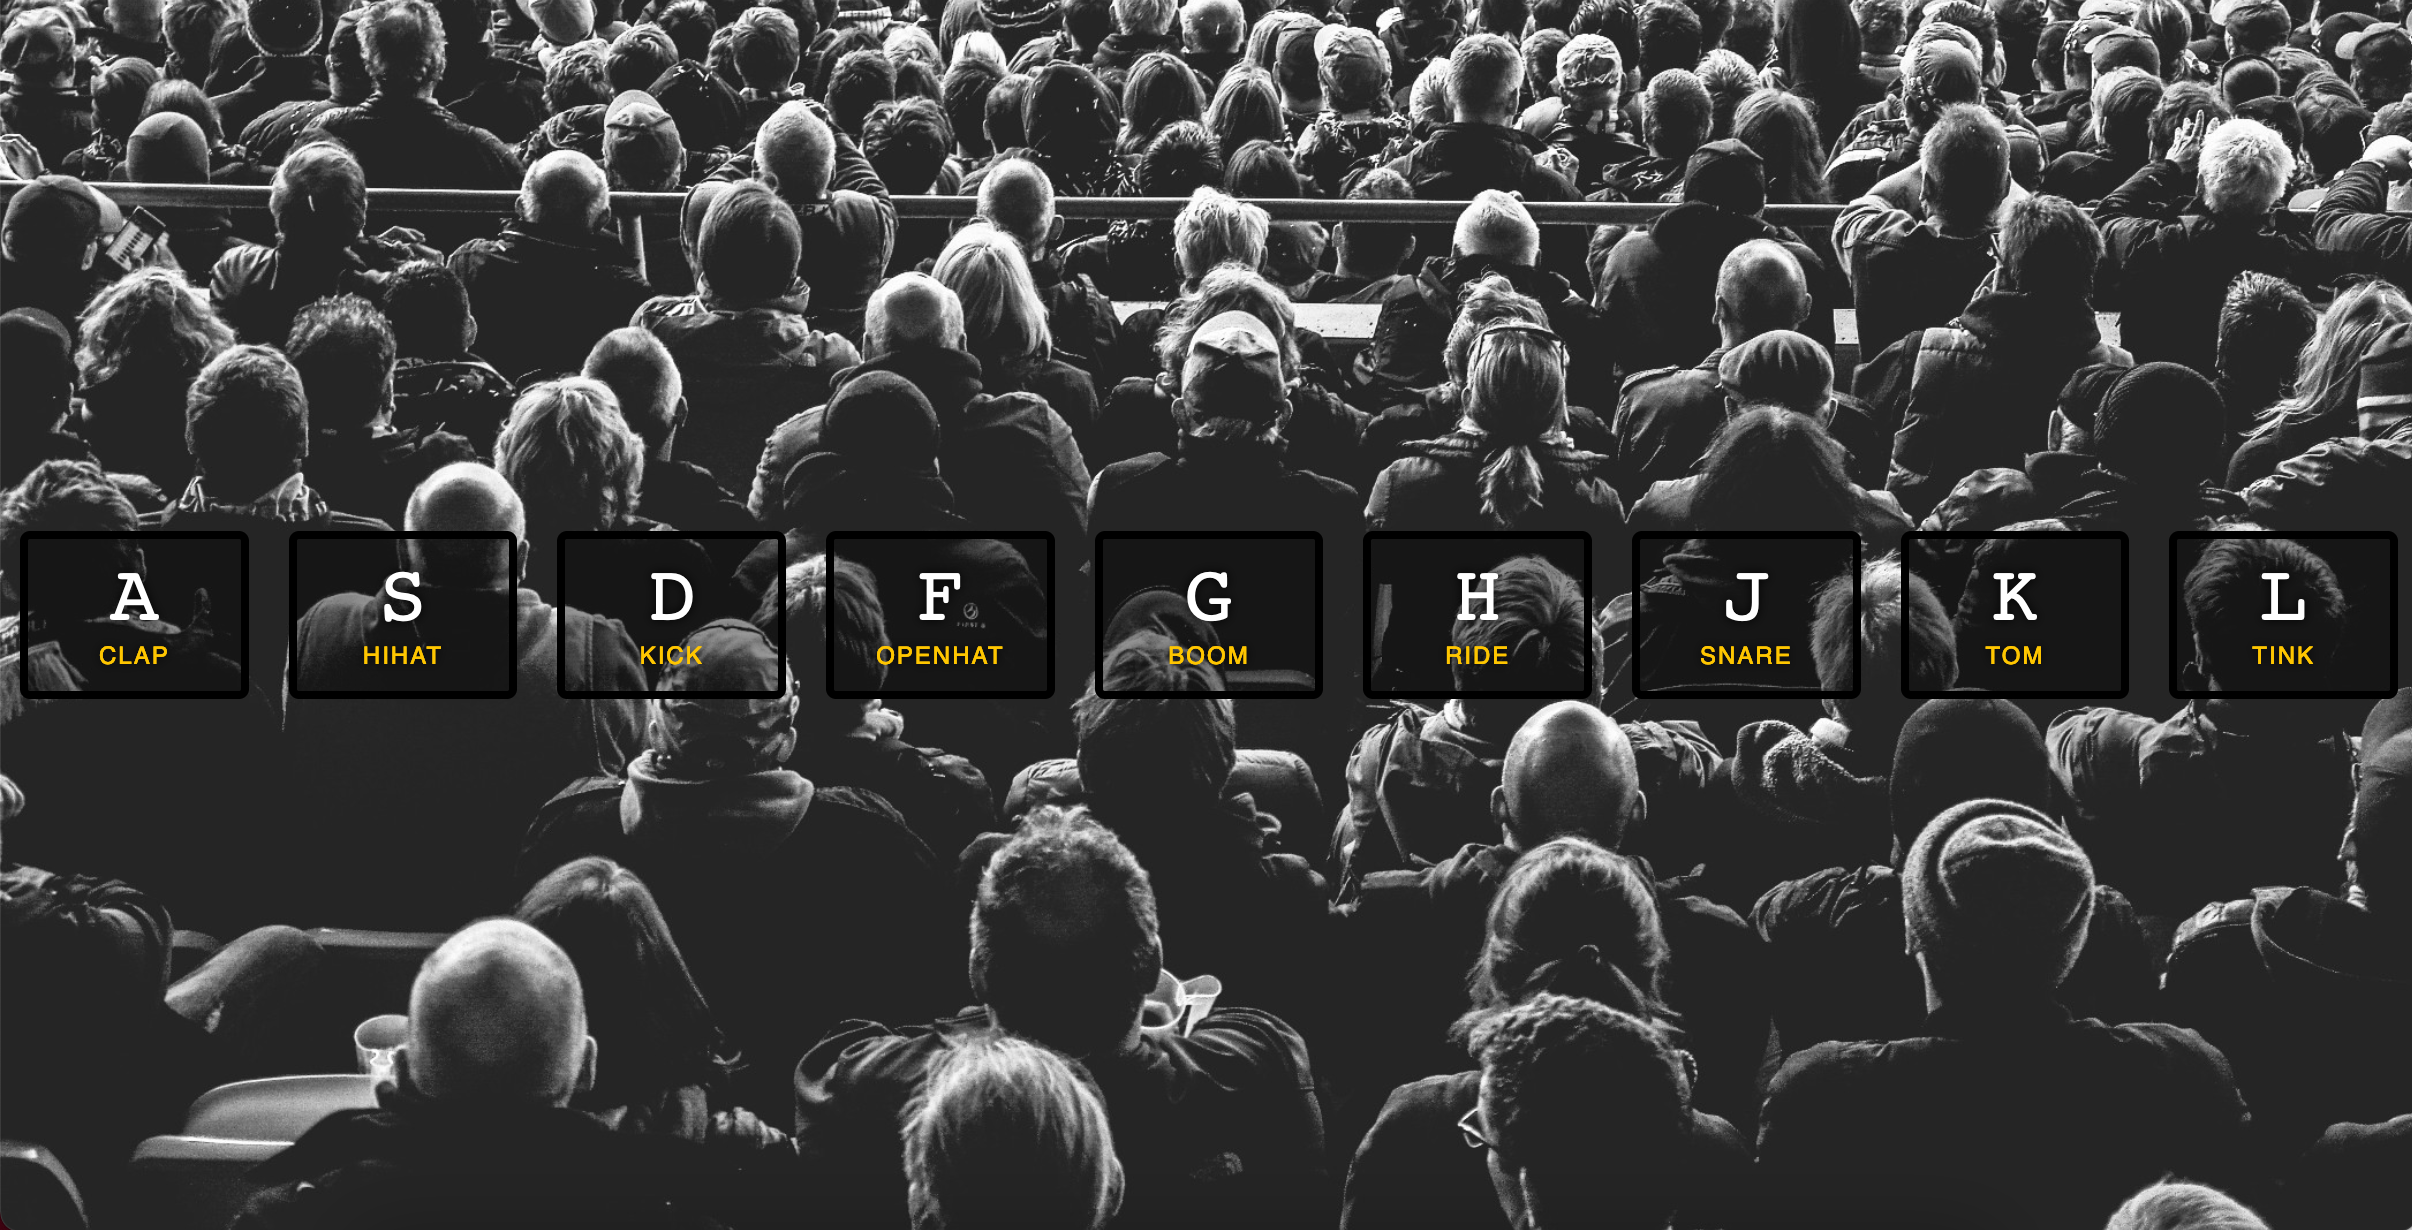
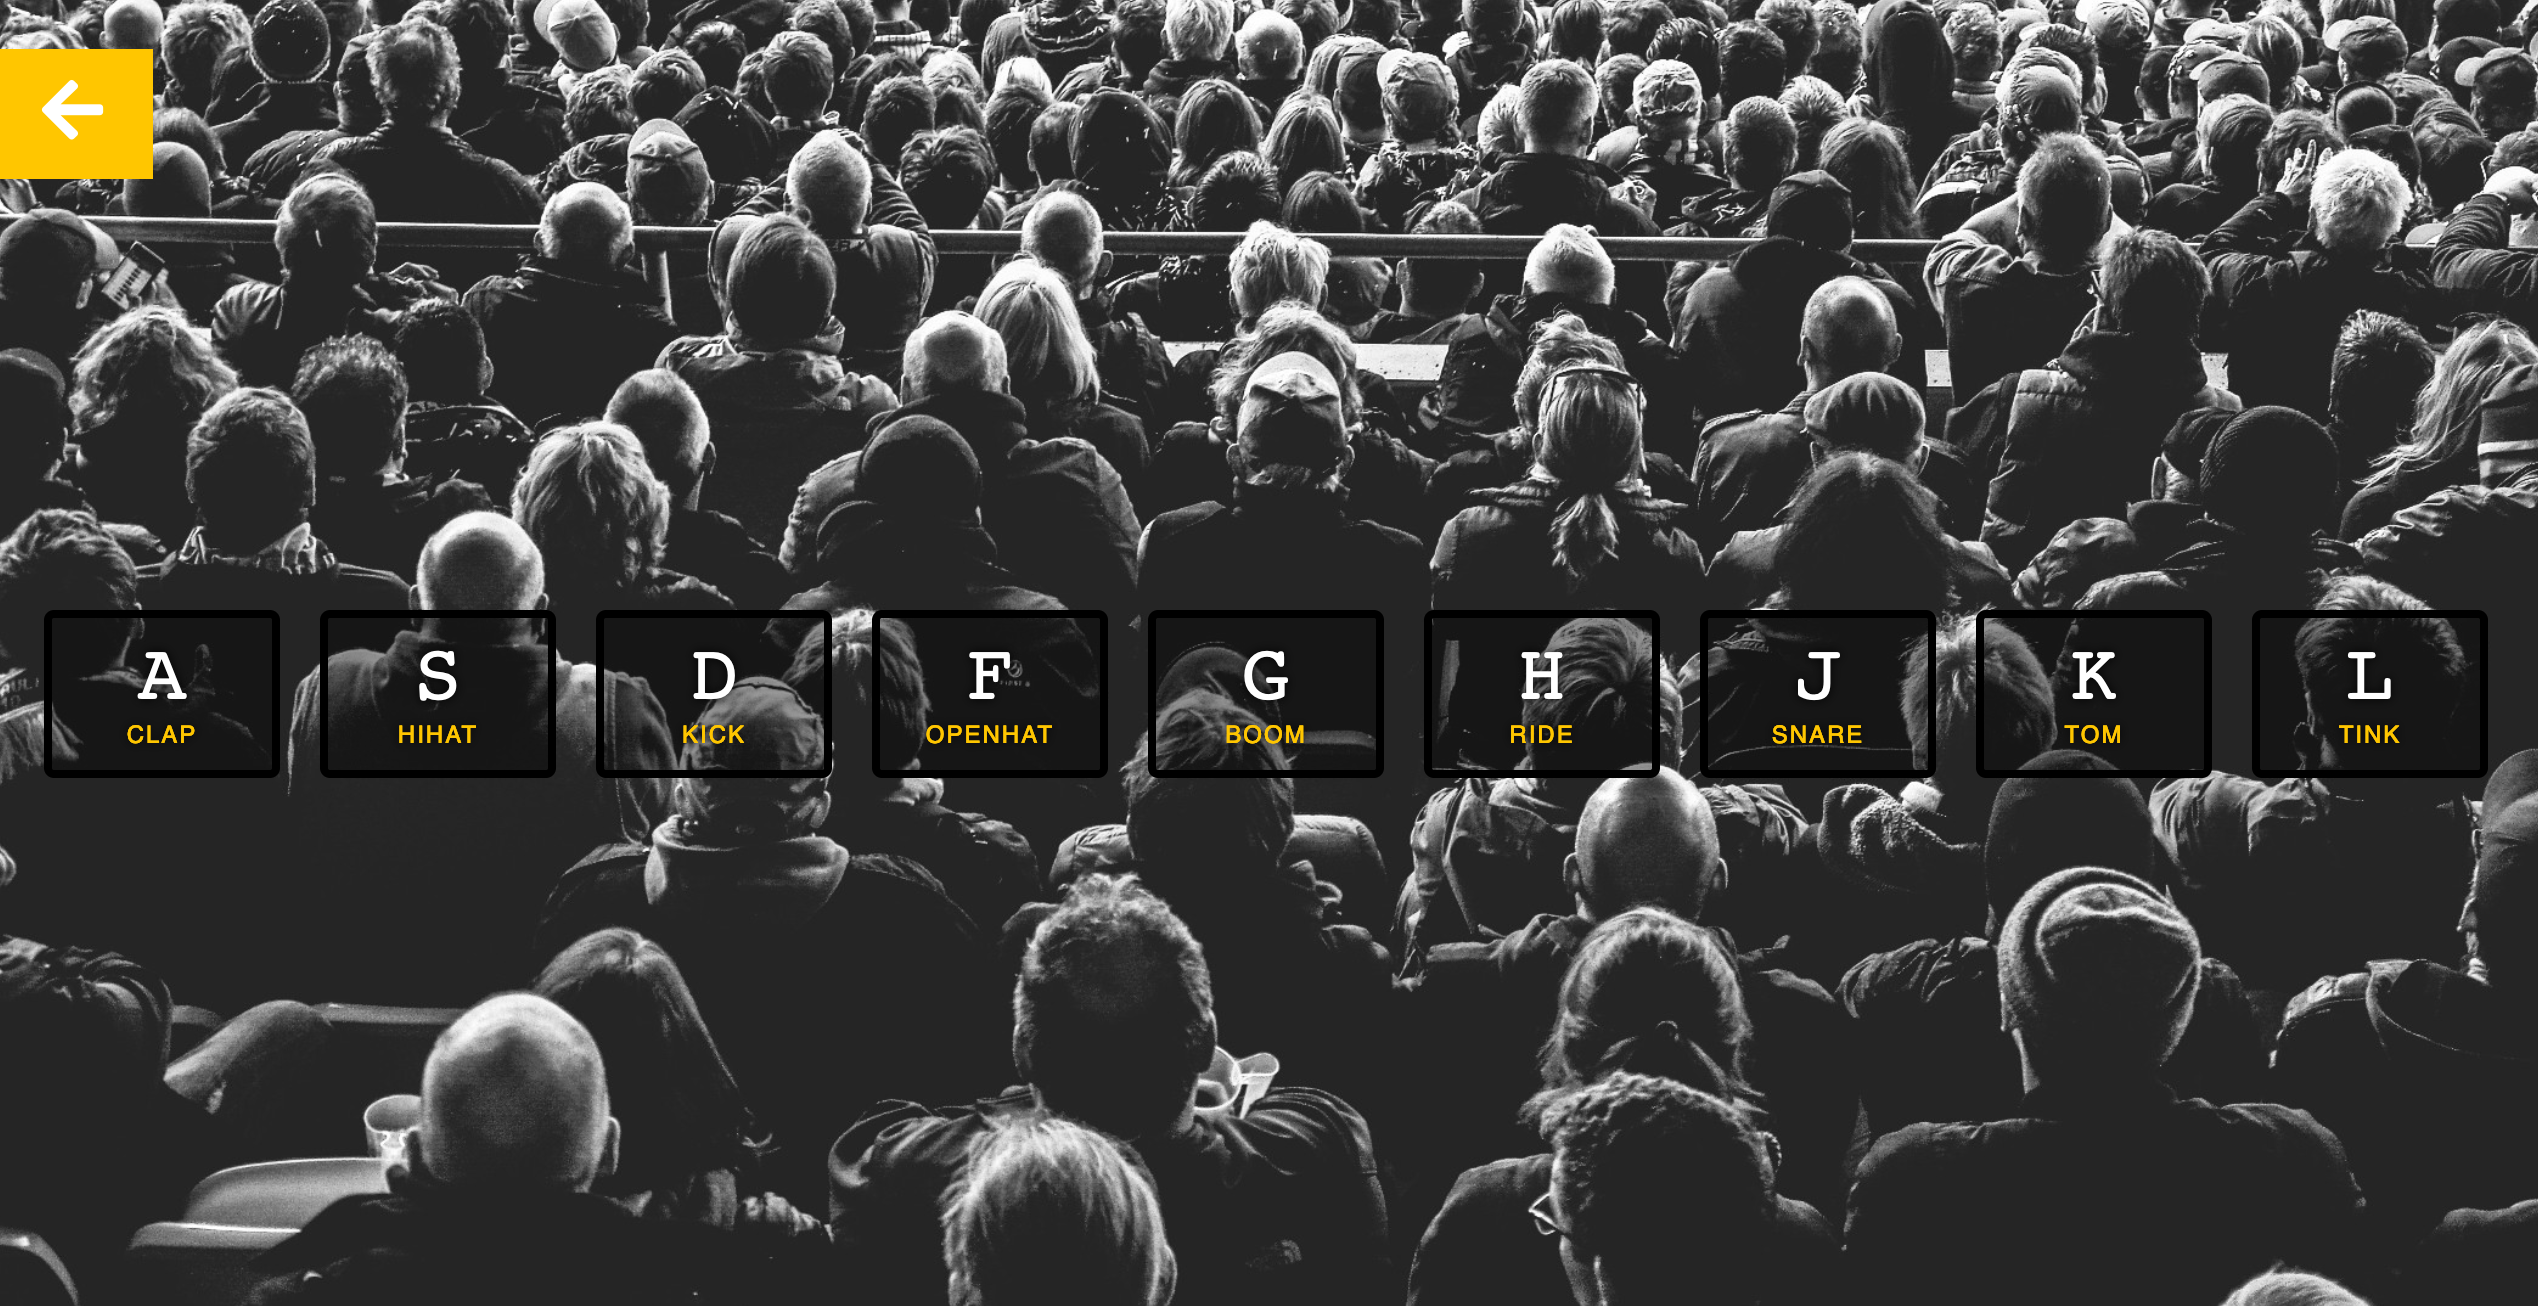
added day2

diff --git a/day2/index.html b/day2/index.html
@@ -1,0 +1,133 @@
+<!DOCTYPE html>
+<html lang="en">
+
+<head>
+  <meta charset="UTF-8">
+  <script src="https://kit.fontawesome.com/ecede9a261.js" crossorigin="anonymous"></script>
+  <title>Day 2: Clock</title>
+</head>
+
+<body>
+  <nav>
+    <a href="../index.html"><i class="fas fa-arrow-left" aria-hidden="true" title="Return to home page"></i></a>
+  </nav>
+
+  <div class="clock">
+    <div class="clock-face">
+      <div class="hand hour-hand"></div>
+      <div class="hand min-hand"></div>
+      <div class="hand second-hand"></div>
+    </div>
+  </div>
+
+
+  <style>
+    html {
+      background: #018DED url(https://unsplash.it/1500/1000?image=881&blur=5);
+      background-size: cover;
+      font-family: 'helvetica neue';
+      text-align: center;
+      font-size: 10px;
+    }
+
+    body {
+      margin: 0;
+      font-size: 2rem;
+      display: flex;
+      flex: 1;
+      min-height: 100vh;
+      align-items: center;
+    }
+
+    nav {
+      align-self: flex-start;
+      margin-top: 2%;
+    }
+
+    nav a {
+      text-transform: uppercase;
+      background-color: transparent;
+      border: 1px solid transparent;
+      font-size: 4rem;
+      color: white;
+    }
+
+    nav a:hover,
+    nav a:focus {
+      background-color: #90BBFE;
+      border: 1px solid white;
+      border-left: none;
+    }
+
+    nav i {
+      padding: 0 50%;
+    }
+
+    .clock {
+      width: 30rem;
+      height: 30rem;
+      border: 20px solid white;
+      border-radius: 50%;
+      margin: 50px auto;
+      position: relative;
+      padding: 2rem;
+      box-shadow:
+        0 0 0 4px rgba(0, 0, 0, 0.1),
+        inset 0 0 0 3px #EFEFEF,
+        inset 0 0 10px black,
+        0 0 10px rgba(0, 0, 0, 0.2);
+    }
+
+    .clock-face {
+      position: relative;
+      width: 100%;
+      height: 100%;
+      transform: translateY(-3px);
+      /* account for the height of the clock hands */
+    }
+
+    .hand {
+      width: 50%;
+      height: 6px;
+      background: black;
+      position: absolute;
+      top: 50%;
+      transform-origin: 100%;
+      transform: rotate(90deg);
+      transition: all 0.05s;
+      transition-timing-function: cubic-bezier(0.1, 2.7, 0.58, 1);
+    }
+  </style>
+
+  <script>
+    const secondHand = document.querySelector('.second-hand');
+    const minuteHand = document.querySelector('.min-hand');
+    const hourHand = document.querySelector('.hour-hand');
+
+    function setDate() {
+      const now = new Date();
+      const seconds = now.getSeconds();
+      const secondsDegrees = ((seconds / 60) * 360) + 90;
+      secondHand.style.transform = `rotate(${secondsDegrees}deg)`;
+
+      const minutes = now.getMinutes();
+      const minutesDegrees = ((minutes) / 60 * 360) + 90;
+      minuteHand.style.transform = `rotate(${minutesDegrees}deg)`;
+
+      const hours = now.getHours();
+      const hoursDegrees = ((hours / 12 * 360) + 90);
+      hourHand.style.transform = `rotate(${hoursDegrees}deg)`;
+
+      if (secondsDegrees === 444) {
+        secondHand.style.transition = '';
+      } else {
+        secondHand.style.transition = 'all 0.05s';
+      }
+    }
+
+    setInterval(setDate, 1000);
+
+  </script>
+</body>
+
+</html>

diff --git a/index.html b/index.html
@@ -36,11 +36,17 @@
                 </a>
             </li>
             <li>
-                <div class="item-container">
-                    <div class="image-container">
-                        <h3>Day 02</h3>
+                <a href="./day2/index.html">
+                    <div class="item-container">
+                        <div class="image-container">
+                            <img src="./assets/day2.png" alt="Preview of day 2 challenge of a clock">
+                        </div>
+                        <div class="item-overlay">
+                            <h3>Day 02</h3>
+                            <p>Clock</p>
+                        </div>
                     </div>
-                </div>
+                </a>
             </li>
             <li>
                 <div class="item-container">

diff --git a/day1/style.css b/day1/style.css
@@ -2,6 +2,7 @@ html {
   font-size: 10px;
   background: url('./background.jpg') bottom center;
   background-size: cover;
+  background-repeat: no-repeat;
 }
 
 body,html {
@@ -11,15 +12,17 @@ body,html {
 }
 
 nav {
-  margin-top: 2%;
+  height: 5vh;
 }
 
 nav a {
   background-color: #ffc600;
-  font-size: 1.6rem;
+  font-size: 3.5rem;
   color: white;
-  padding: 1%;
+  margin-top: 2%;
+  padding: 1% 2%;
   text-transform: uppercase;
+  position: absolute;
 }
 
 nav a:hover {
@@ -34,7 +37,7 @@ nav i {
 .keys {
   display: flex;
   flex: 1;
-  min-height: 100vh;
+  min-height: 95vh;
   align-items: center;
   justify-content: center;
 }

diff --git a/styles.css b/styles.css
@@ -55,6 +55,7 @@ body {
 img {
     display: block;
     max-width: 100%;
+    object-fit: cover;
 }
 
 a {
